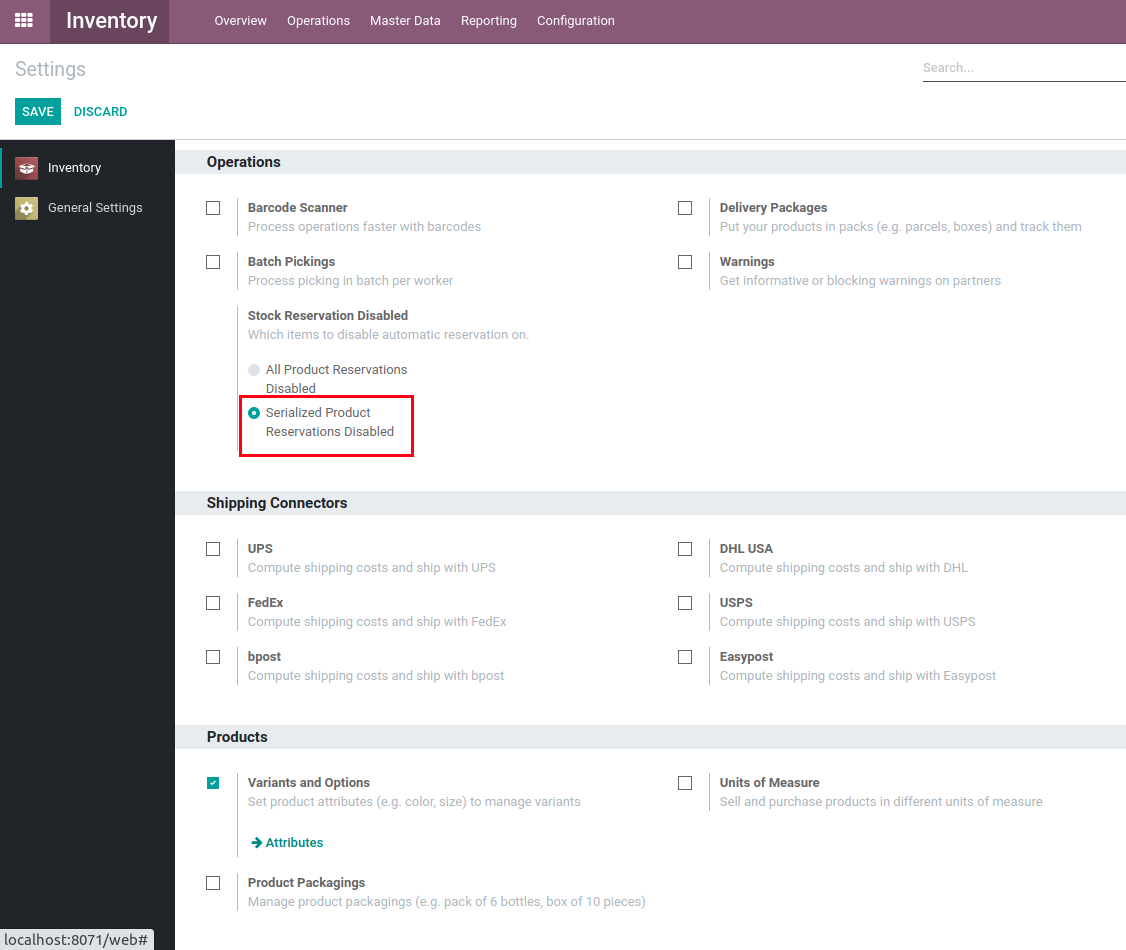
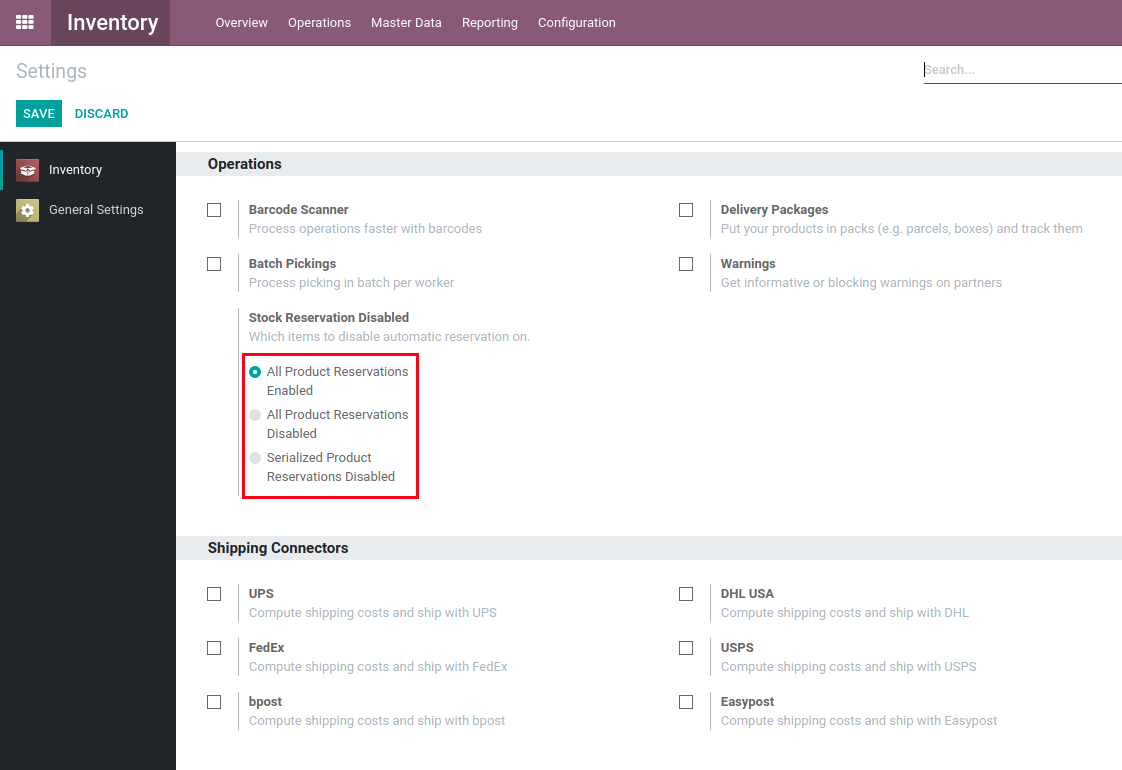
change default mode

diff --git a/stock_auto_assign_disabled/models/stock_move.py b/stock_auto_assign_disabled/models/stock_move.py
@@ -8,19 +8,16 @@ class StockMove(models.Model):
     _inherit = "stock.move"
 
     def _action_assign(self):
-        if self._context.get("stock_auto_assign_disable"):
+        disabled_status = self.env["ir.config_parameter"].get_param(
+            "stock_auto_assign_disabled.config"
+        )
+        if disabled_status == "off":
+            super()._action_assign()
+        elif disabled_status == "serial":
             self_filtered = self.filtered(
                 lambda x: x._should_process_auto_reservation()
             )
             super(StockMove, self_filtered)._action_assign()
-        else:
-            super()._action_assign()
 
     def _should_process_auto_reservation(self):
-        disabled_status = self.env["ir.config_parameter"].get_param(
-            "stock_auto_assign_disabled.config"
-        )
-        if disabled_status == "serial":
-            return self.product_id.tracking != "serial"
-        else:
-            return False
+        return self.product_id.tracking != "serial"

diff --git a/stock_auto_assign_disabled/tests/test_auto_assign.py b/stock_auto_assign_disabled/tests/test_auto_assign.py
@@ -47,8 +47,19 @@ class TestShadowMoves(SavepointCase):
             }
         )
 
-    def test_scheduler_no_reservation(self):
+    def test_scheduler_off(self):
         self.stock_move._action_confirm()
+        self.env["ir.config_parameter"].set_param(
+            "stock_auto_assign_disabled.config", "off"
+        )
+        self.stock_move.group_id.run_scheduler()
+        assert self.stock_move.reserved_availability == 5.0
+
+    def test_scheduler_all(self):
+        self.stock_move._action_confirm()
+        self.env["ir.config_parameter"].set_param(
+            "stock_auto_assign_disabled.config", "all"
+        )
         self.stock_move.group_id.run_scheduler()
         assert self.stock_move.reserved_availability == 0.0
 

diff --git a/stock_auto_assign_disabled/models/res_config_settings.py b/stock_auto_assign_disabled/models/res_config_settings.py
@@ -6,9 +6,10 @@ class ResConfigSettings(models.TransientModel):
 
     stock_reservation_disabled = fields.Selection(
         [
+            ("off", "All Product Reservations Enabled"),
             ("all", "All Product Reservations Disabled"),
             ("serial", "Serialized Product Reservations Disabled"),
         ],
-        default="all",
+        default="off",
         config_parameter="stock_auto_assign_disabled.config",
     )

diff --git a/stock_auto_assign_disabled/README.rst b/stock_auto_assign_disabled/README.rst
@@ -4,6 +4,18 @@ This module disables the automatic stock reservation by the scheduler.
 
 .. contents:: Table of Contents
 
+Configuration
+-------------
+To select which articles to exclude from automatic reservation, simply head to the inventory section of the settings menu.
+
+.. image:: static/description/settings.png
+
+You can then select between the 3 desired behaviors.
+
+The default behavior will be that the automatic reservations are enabled (as if the module wasn't installed).
+
+If the **procurement_jit** module is installed, the `Stock Auto Assign Disabled Jit <../stock_auto_assign_disabled_jit/README.rst>`_ module will automatically be installed to also disable its automatic reservations.
+
 Summary
 -------
 This stock movement has not yet had any quantity of items reserved.
@@ -14,23 +26,13 @@ We run the scheduler (either manually or automatically after some time).
 
 .. image:: static/description/scheduler.png
 
-There are still no reservations.
+Using the **All Product Reservations Disabled** option, there are still no reservations.
 
 .. image:: static/description/no_reservation.png
 
-In the settings menu, you also have the option to disable the automatic stock reservation by the scheduler on serialized articles only.
+In the settings menu, you also have the option to disable the automatic stock reservation by the scheduler on serialized articles only, or alternatively turn off all of this module's functionalities.
 
 .. image:: static/description/settings.png
-
-Configuration
--------------
-To select which articles to exclude from automatic reservation, simply head to the inventory section of the settings menu.
-
-.. image:: static/description/settings_full.png
-
-You can then select between the 2 desired behaviors.
-
-If the **procurement_jit** module is installed, the `Stock Auto Assign Disabled Jit <../stock_auto_assign_disabled_jit/README.rst>`_ module will automatically be installed to also disable its automatic reservations.
 
 Contributors
 ------------
